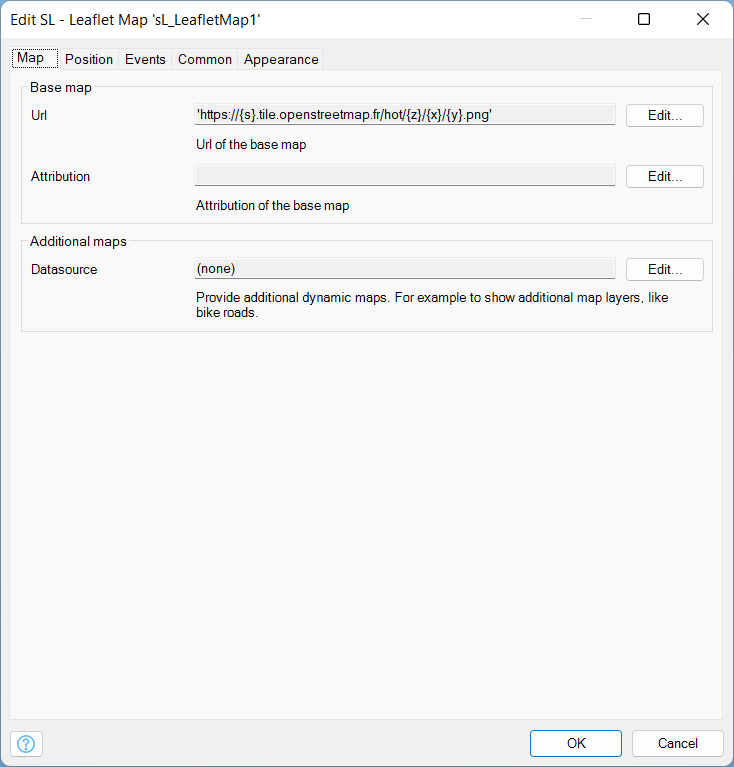
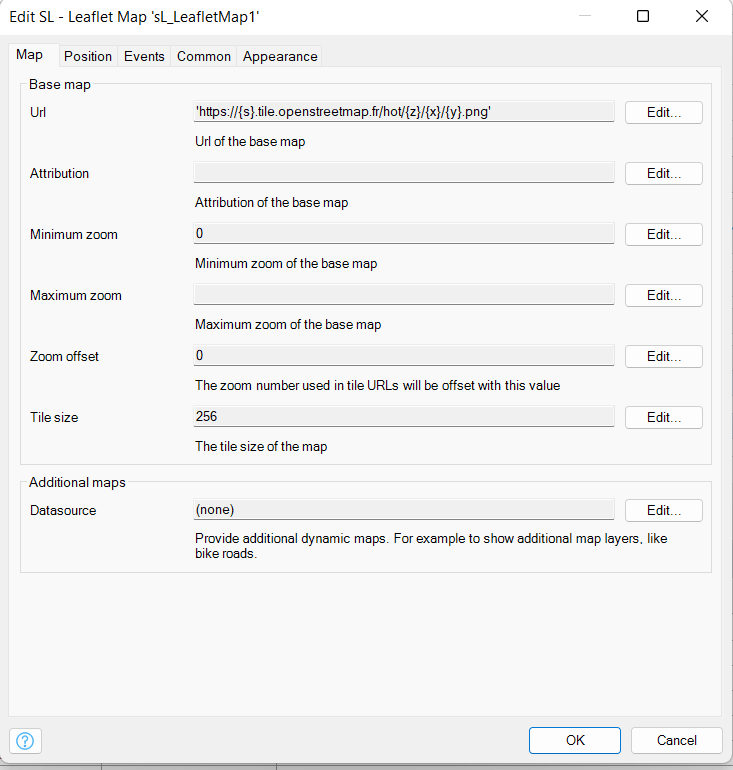
Readme md
Replaced images

diff --git a/README.md b/README.md
@@ -43,6 +43,10 @@ Leaflet map is a collection of pluggable widgets that displays a map for a user.
 
 - Url: The tile provider to use as base map layer, this url can include parameters
 - Attribution: Credits in the right bottom screen (optional)
+- Minimum zoom: minimum base zoom of the map
+- Maximum zoom: maximum base zoom of the map
+- Zoom offset: the zoom number used in the URL will be offset with this value
+- Tile size: the tile size of the map by default this is 256, this can be different depending on tile provider.
 
 - Additional maps: A datasource with list that returns objects that have a string with a map source stored.  (optional)
 
